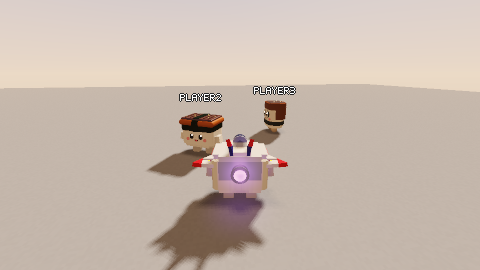
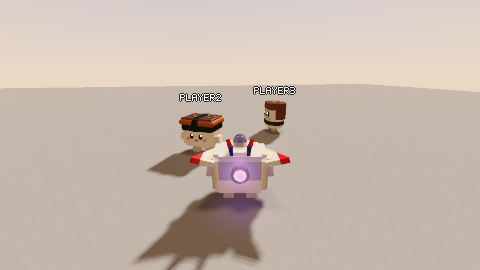
feat(skins): bigger jet wings with missile pods
Width stays inside the legendary bounds tolerance; chord, thickness,
dihedral and wing height grow so the wings read from the game camera,
and an underwing missile pod is added on both jets.

Claude-Session: https://claude.ai/code/session_01DZSXTc4h1in8hWv4zcL1wV

diff --git a/docs/developer/m6-08-legend-skins.md b/docs/developer/m6-08-legend-skins.md
@@ -68,3 +68,8 @@
 - 남은 것: 사용자 Studio 확인, 상품 id, 문서 반영(사용자), 진짜 roblox std로 selene 한 번.
 - 시트 PNG(`docs/드래곤·용 스시 공격 시트.png`)는 worktree에 추적 안 된 채로 있었고 이 작업에서 커밋하지 않음(사용자 파일).
 - 막힌 점: 없음.
+
+## 2026-11-10 — 제트기 날개 키움 (사용자 요청 "제트기 날개 키워줘")
+- 정면 게임 카메라에서 날개가 얇게만 보였음. 폭(X)은 외곽 한도(concept-salmon ±25%, 5.95)에 거의 닿아 있어(5.85) 넓힐 수 없음 → 폭 1.34 → 1.38(5.91/5.92), **앞뒤 2.0 → 2.75·2.8, 두께 0.24 → 0.32**, 들림 −6° → −14°(섀도는 처짐 10° → 12°), **날개 높이 0.62 → 0.9**(어깨 높이 — 정면 윤곽에서 팔 위로 보임), 날개 아래 **미사일 포드**(원기둥 + 둥근 머리, 제트기 흰·빨강 / 섀도 건메탈·보라).
+- 파츠: 제트기 60(표정 최대 64)/70, 섀도 64(68)/70. 겹면·떠 있는 파츠 없음. 렌더 `after-*` 갱신(before는 m6-08 첫 렌더 그대로).
+
